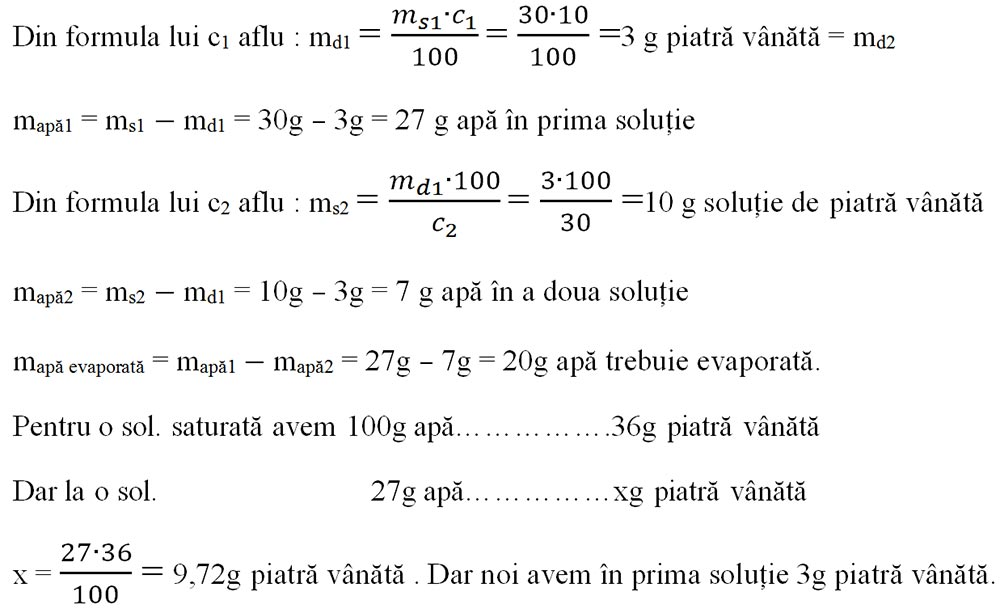
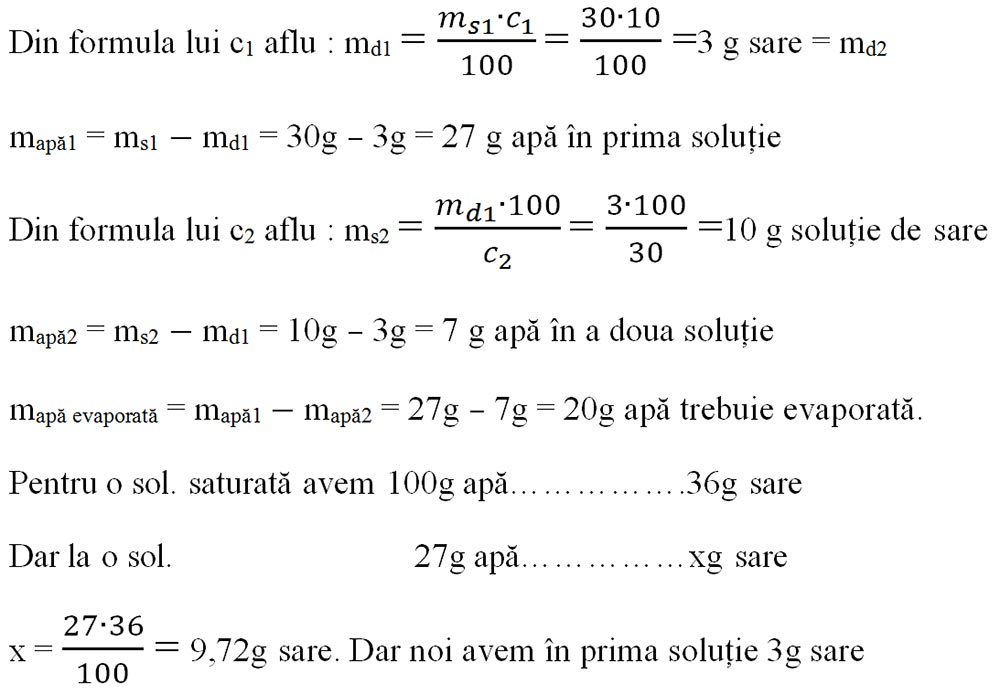
Clasa VII Cap2 O noua Corectie Problema Model 3 de la subcapitol 2.7.2

diff --git a/docs/chimie/clasa7/chimie-clasa7-capitolul2.md b/docs/chimie/clasa7/chimie-clasa7-capitolul2.md
@@ -1558,10 +1558,10 @@ m<sub>apă</sub> = ?
 
 :::caution Problemă model cu concentrația procentuală de masă
 
-3) Calculează masa de apă care trebuie evaporată din 30g soluție de piatră vânătă de concentrație 10% pentru a ajunge la o concentrație de 30%. Știind că solubilitatea sării de bucătărie (clorură de sodiu)  este de 36 g la 100g apă,  precizează tipul celor două soluții, a celei inițiale și a celei finale. 
+3) Calculează masa de apă care trebuie evaporată din 30g soluție de sare de concentrație 10% pentru a ajunge la o concentrație de 30%. Știind că solubilitatea sării de bucătărie (clorură de sodiu)  este de 36 g la 100g apă,  precizează tipul celor două soluții, a celei inițiale și a celei finale. 
 
 
-m<sub>s1</sub> = 30 g sol. piatră vânătă
+m<sub>s1</sub> = 30 g sol. sare
 
 c<sub>1</sub> = 10%
 
